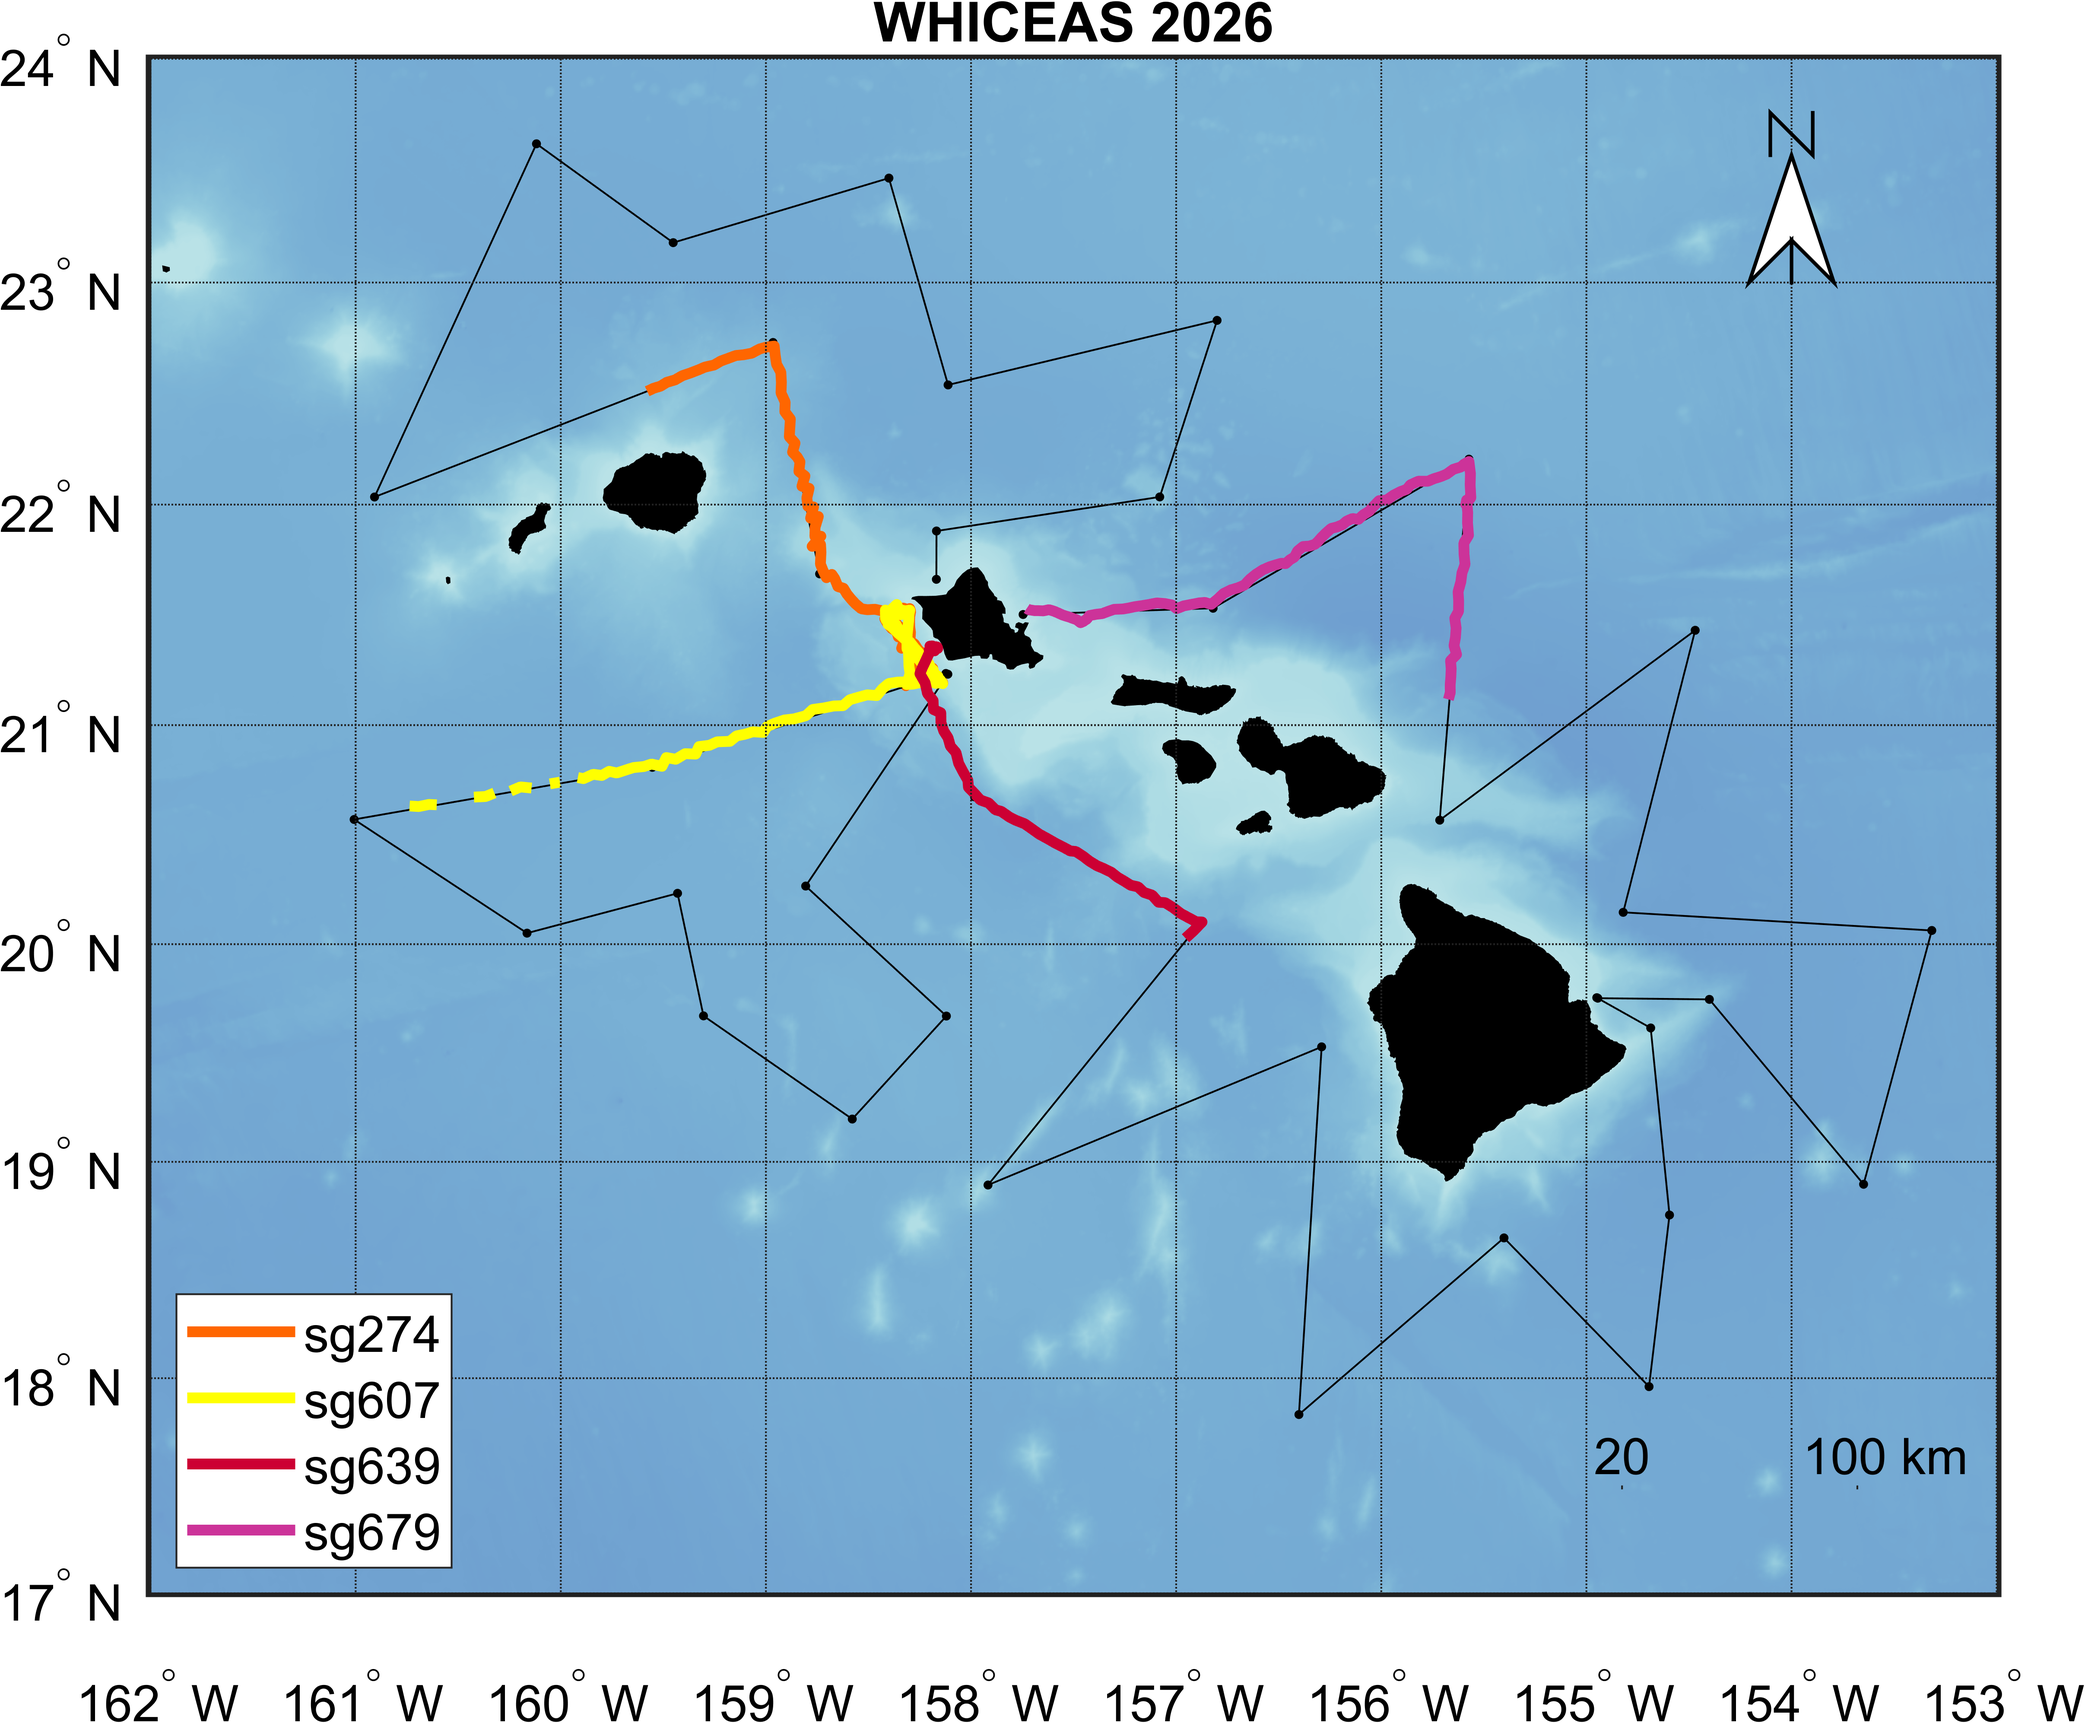
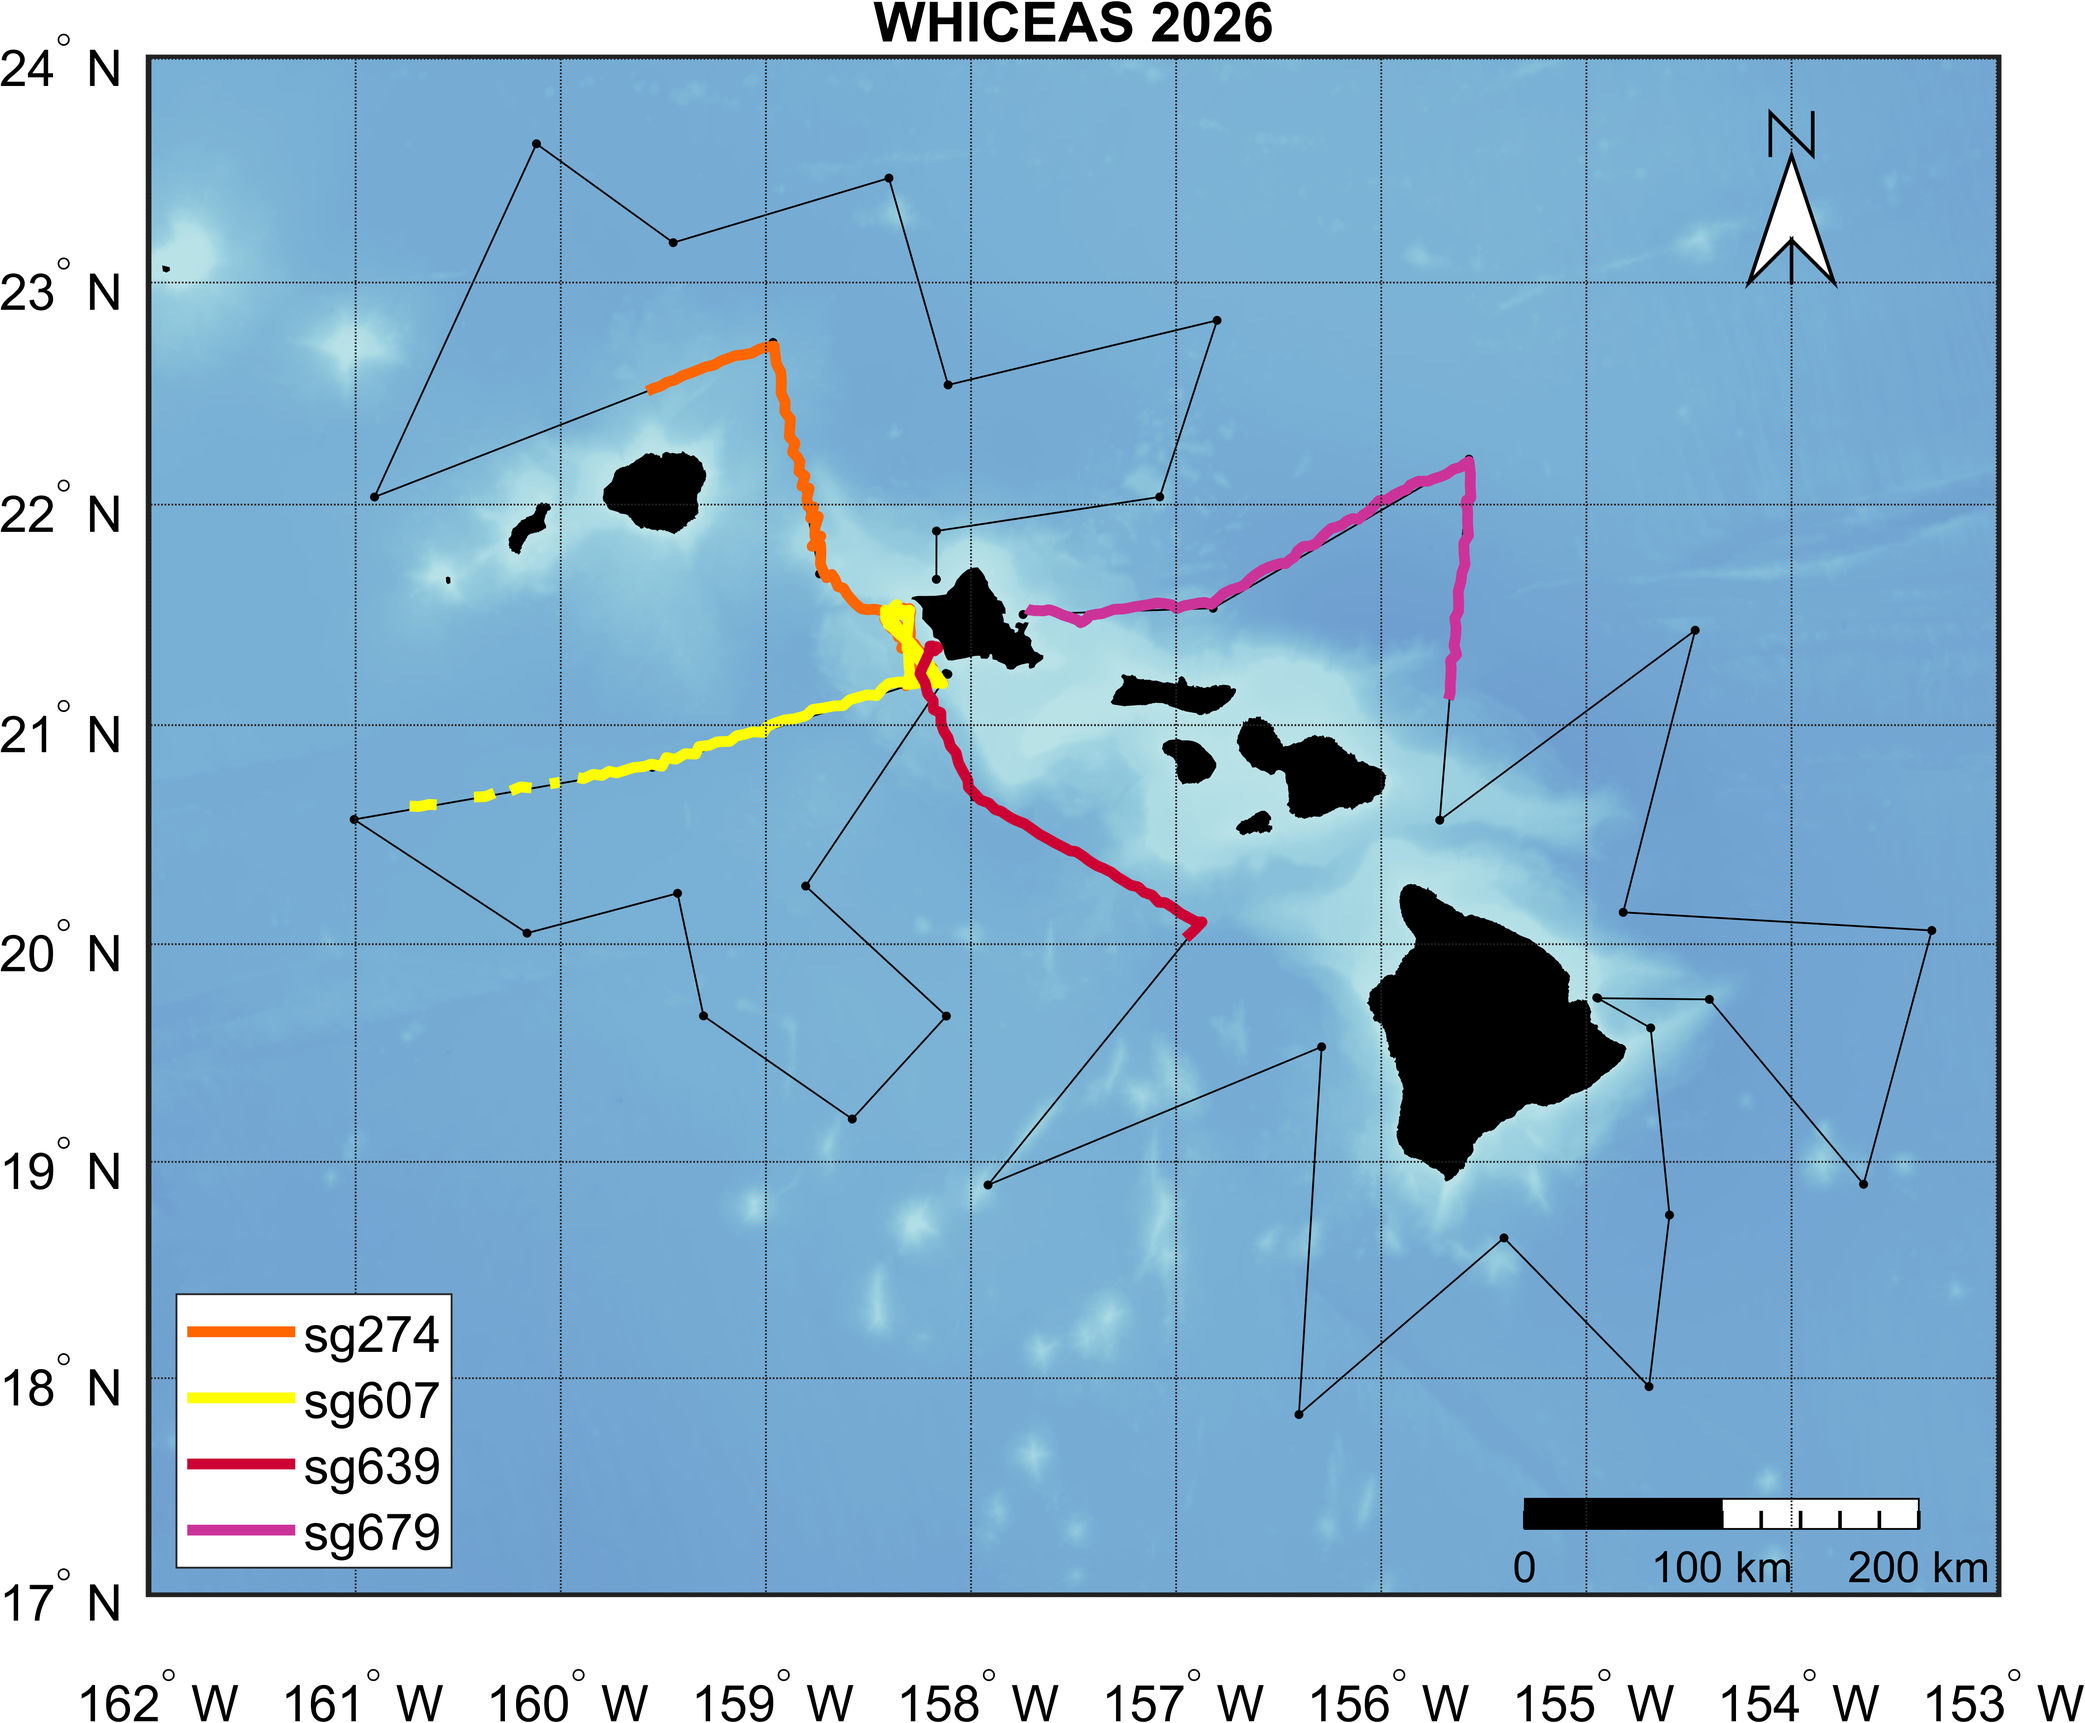
added scale bar

Changed region(s): [[0.7147, 0.8395, 0.9633, 0.9328]]

diff --git a/WHICEAS_glider_downloads.m b/WHICEAS_glider_downloads.m
@@ -111,14 +111,15 @@ CONFIG = agate('C:\Users\selene.fregosi\Desktop\sg274_20260128_WHICEAS\agate_con
 CONFIG.map.naLat = 23;
 CONFIG.map.naLon = -154;
 % set scale bar location
-CONFIG.map.scalePos = [0.05 0.31];
-CONFIG.map.scaleMajor = 100;
-CONFIG.map.scaleMinor = 20;
+% CONFIG.map.scalePos = [0.05 0.31];
+% CONFIG.map.scaleMajor = 100;
+% CONFIG.map.scaleMinor = 20;
 
 [baseFig] = createBasemap(CONFIG, 'bathy', 1, 'contourOn', 0, 'figNum', 2026);
 baseFig.Name = 'WHICEAS 2026';
 % baseFig.Position = [20    80    1200    700]; % set position on screen
-baseFig.Position = [-1828 267 1200 700];
+% baseFig.Position = [-1828 267 1200 700]; % Newport office
+baseFig.Position = [2720 5 1200 700]; % Home office
 % simplify axes labels
 plabel('PLabelLocation', 1, 'PLabelRound', 0, 'FontSize', 14);
 mlabel('MLabelLocation', 1, 'MLabelRound', 0, ...
@@ -138,6 +139,9 @@ for g = 1:numel(gliders)
     h(g) = plotm(ppTmp.startLatitude, ppTmp.startLongitude, ...
         'Color', col_sg(g,:),'LineWidth', 3, 'DisplayName', gliders{g});
 end
+
+addScaleBar('Length', 200, 'Major', 100, 'Minor', 20, ...
+    'AnchorLat', 17.3, 'AnchorLon', -155.3)
 
 % add legend
 legend(h, 'Location', 'southwest', 'FontSize', 14)

diff --git a/README.md b/README.md
@@ -5,7 +5,9 @@ Repository for piloting and analysis of the 2026 WHICEAS Glider Survey
 ### Relevant links
 
 [2026 WHICEAS Gliders Google Drive Folder](https://drive.google.com/drive/u/0/folders/1fL8USjMAoyTS1Tv9anyczSqus7qUjUk2)
+
 *This is not part of the NMFS PIC Gliders Shared Drive folder because the surevy includes OSU and PIFSC gliders*
 
+### Current status
 ![WHICEAS glider survey map](/outputs/combined_map_latest.png)
 _Map last updated: YYYY-MM-DD_
